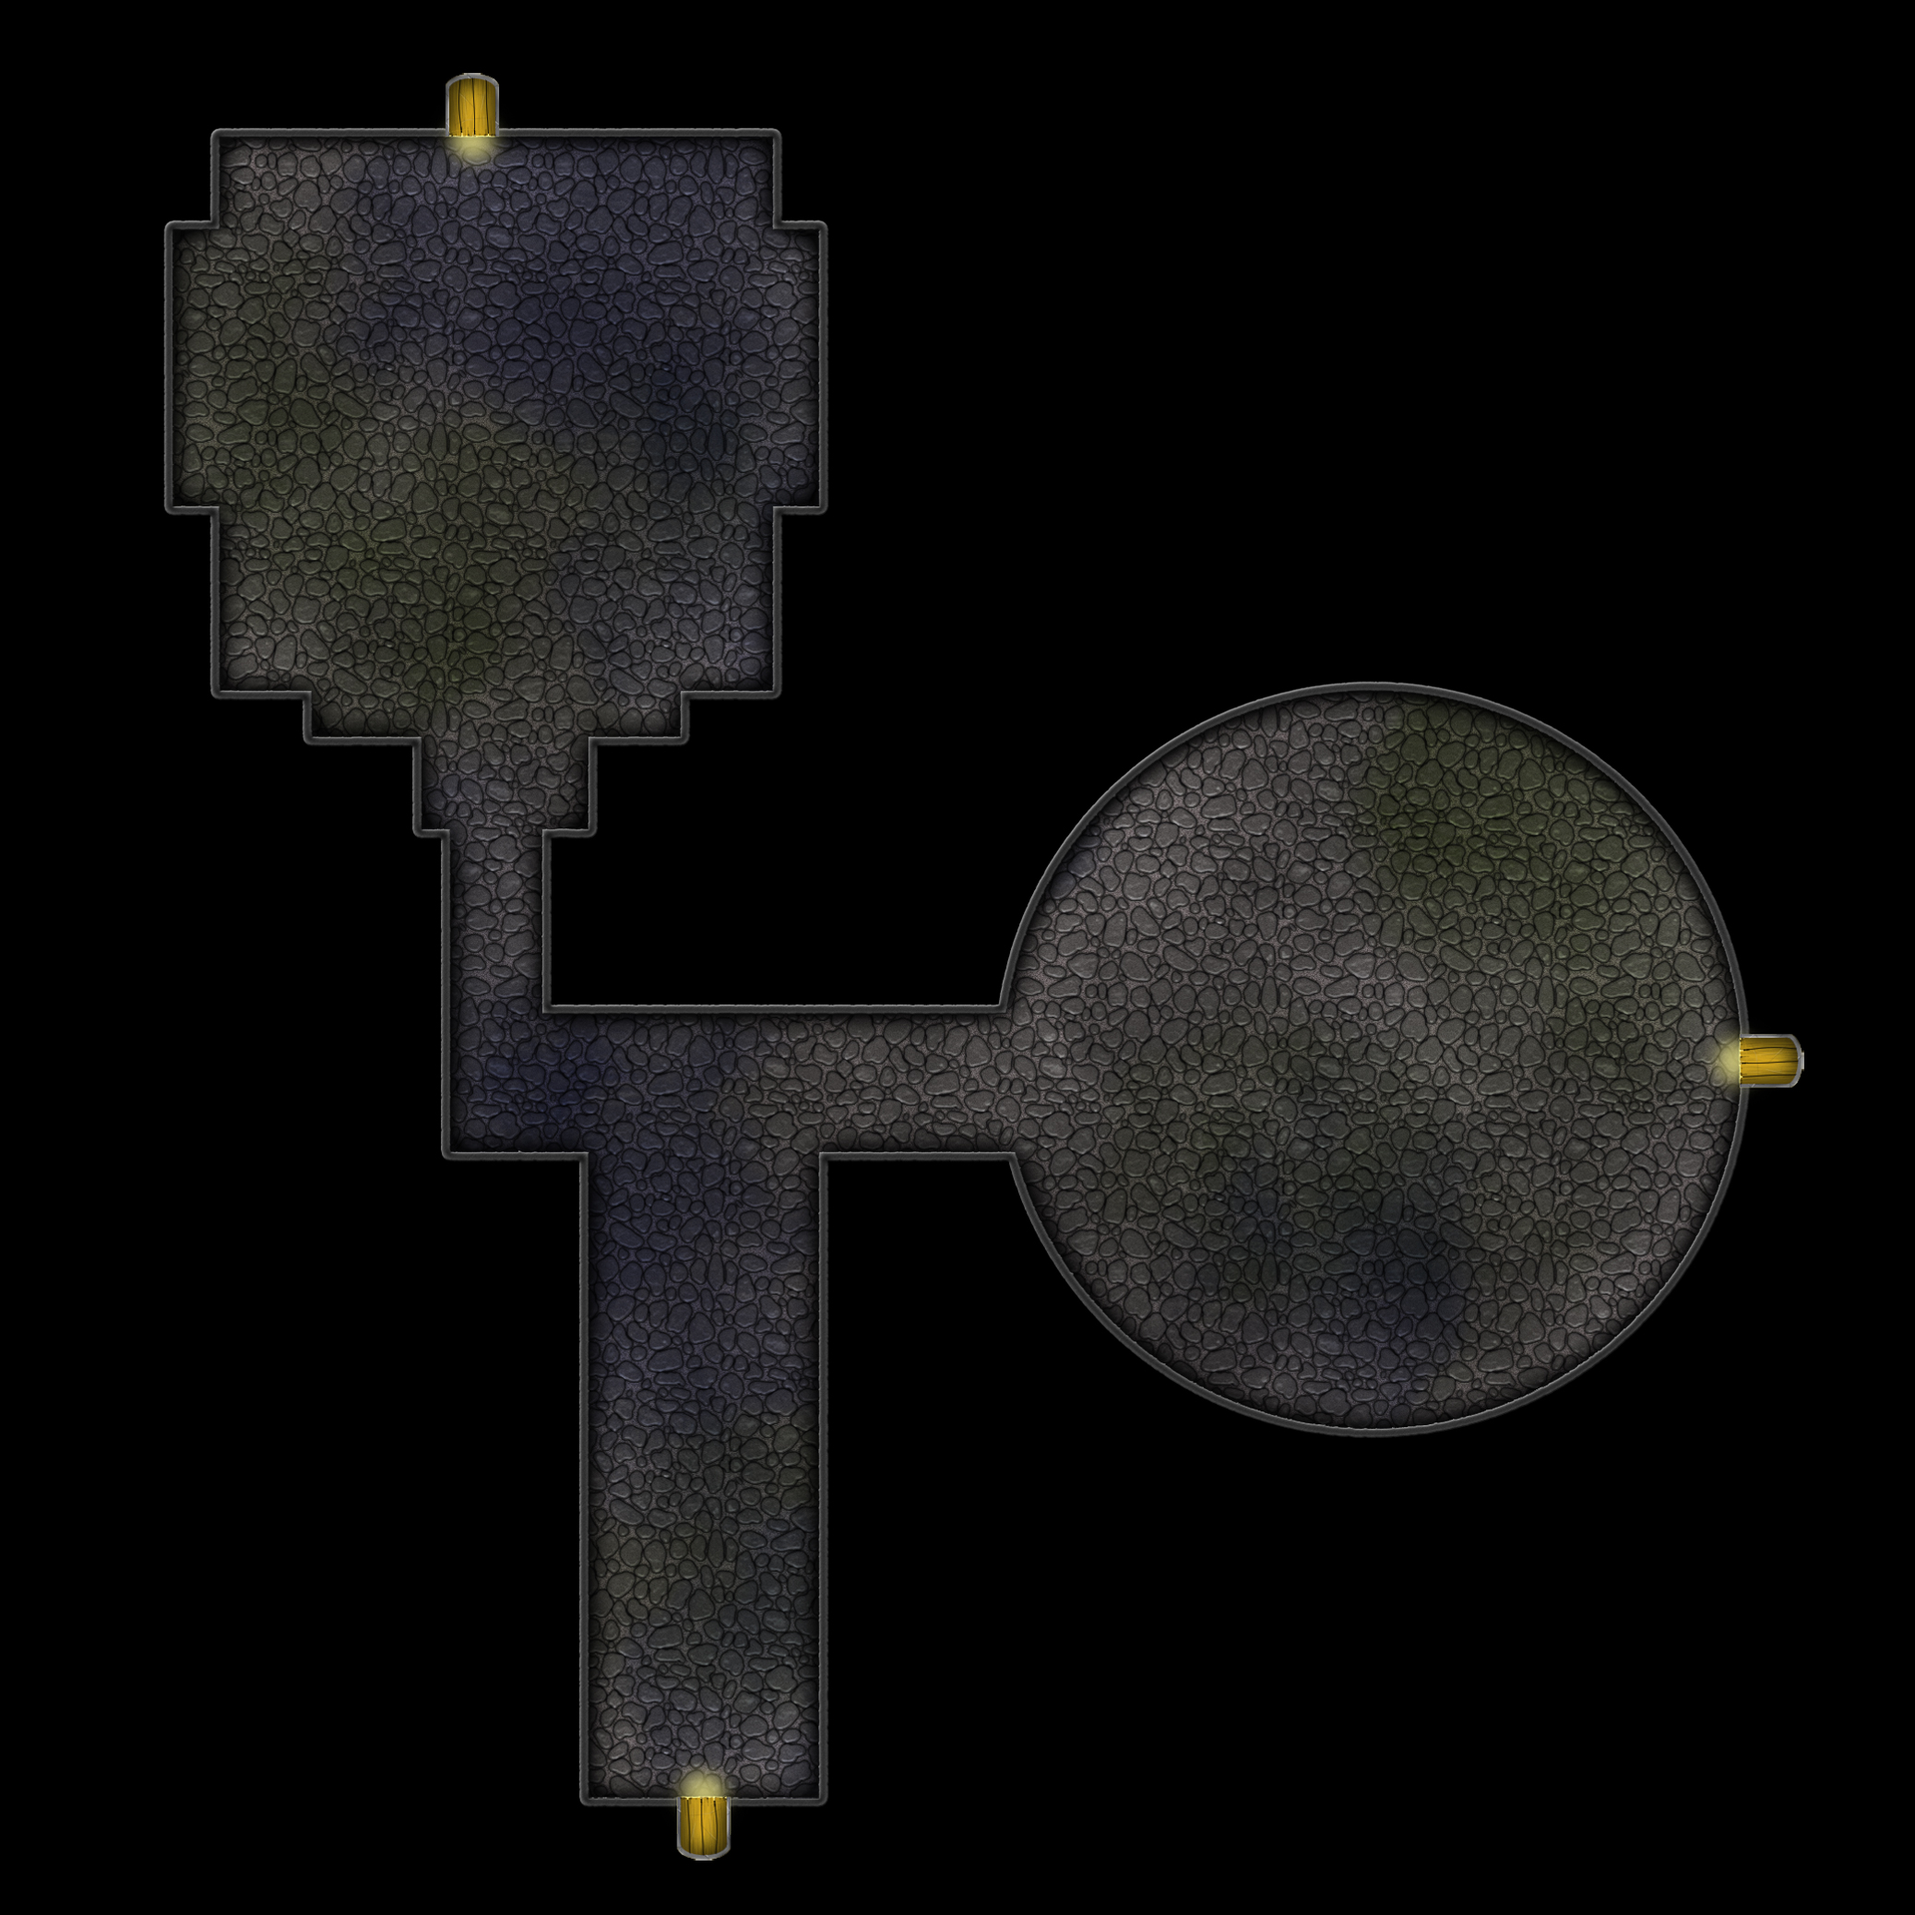
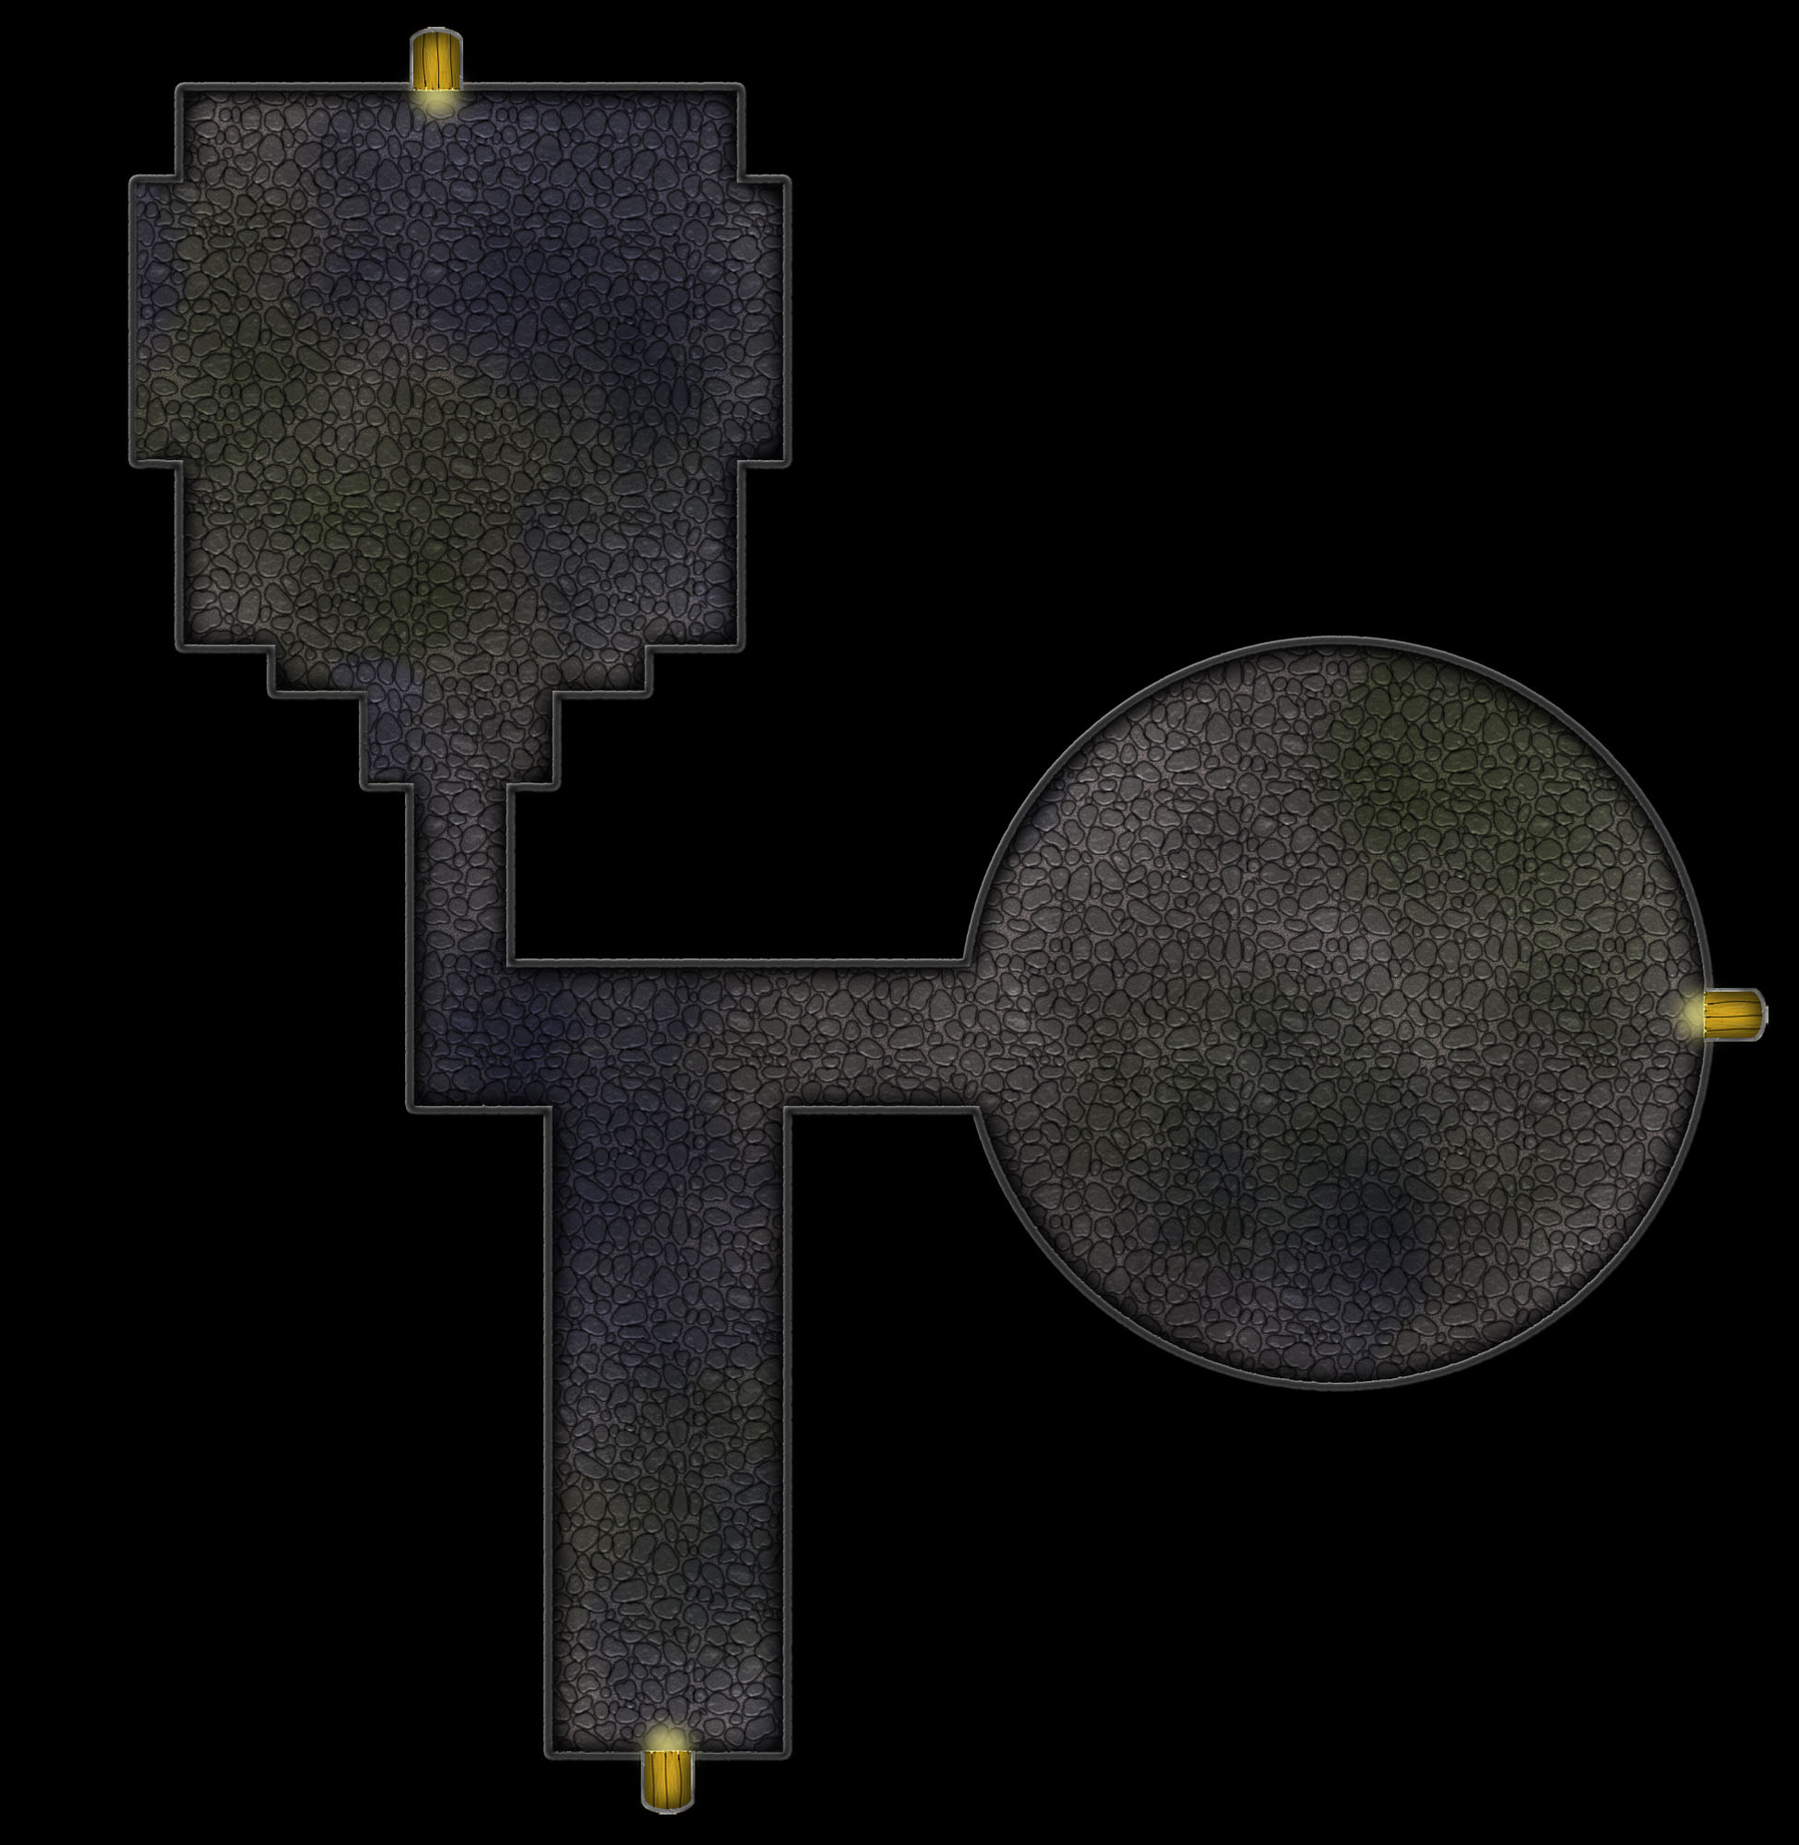
updated the coliseum/halls zone images. the main image itself was not perfectly lined up to a 50x50 grid, which it needs to be for the battle to take place on it. the round room on the right is okay, but there were two walls in the northwest room that were off by enough to cause issues. i also creat

Changed region(s): [[0.0615, 0.0, 0.9846, 0.992]]

diff --git a/SRPG/SRPG/Zones/Coliseum/Halls.cs b/SRPG/SRPG/Zones/Coliseum/Halls.cs
@@ -18,13 +18,13 @@ namespace SRPG.Zones.Coliseum
             Sandbag = Grid.FromBitmap("Zones/Coliseum/Halls/sandbag");
             ImageLayers.Add(new ImageObject(Game.GetInstance().Content.Load<Texture2D>("Zones/Coliseum/Halls/halls")));
 
-            Doors.Add(new Door {Location = new Rectangle(734, 1933, 55, 8), Name = "cell", Orientation = Direction.Up });
-            Doors.Add(new Door { Location = new Rectangle(487, 160, 51, 12), Name = "village", Orientation = Direction.Down });
+            Doors.Add(new Door {Location = new Rectangle(691, 1847, 67, 43), Name = "cell", Orientation = Direction.Up });
+            Doors.Add(new Door { Location = new Rectangle(446, 108, 57, 31), Name = "village", Orientation = Direction.Down });
 
-            Objects.Add(new InteractiveObject{ Interact = SimpleDoor("coliseum/cell", "halls"), Location = new Rectangle(733, 1945, 60, 11) });
-            Objects.Add(new InteractiveObject { Interact = SimpleDoor("village/village", "coliseum"), Location = new Rectangle(487, 138, 51, 12) });
+            Objects.Add(new InteractiveObject{ Interact = SimpleDoor("coliseum/cell", "halls"), Location = new Rectangle(691, 1895, 67, 12) });
+            Objects.Add(new InteractiveObject { Interact = SimpleDoor("village/village", "coliseum"), Location = new Rectangle(446, 90, 57, 12) });
 
-            Objects.Add(new InteractiveObject { Interact = TestBattle("coliseum/hall"), Location = new Rectangle(1875, 1120, 31, 64) });
+            Objects.Add(new InteractiveObject { Interact = TestBattle("coliseum/hall"), Location = new Rectangle(1839, 1070, 16, 65) });
         }
     }
 }
